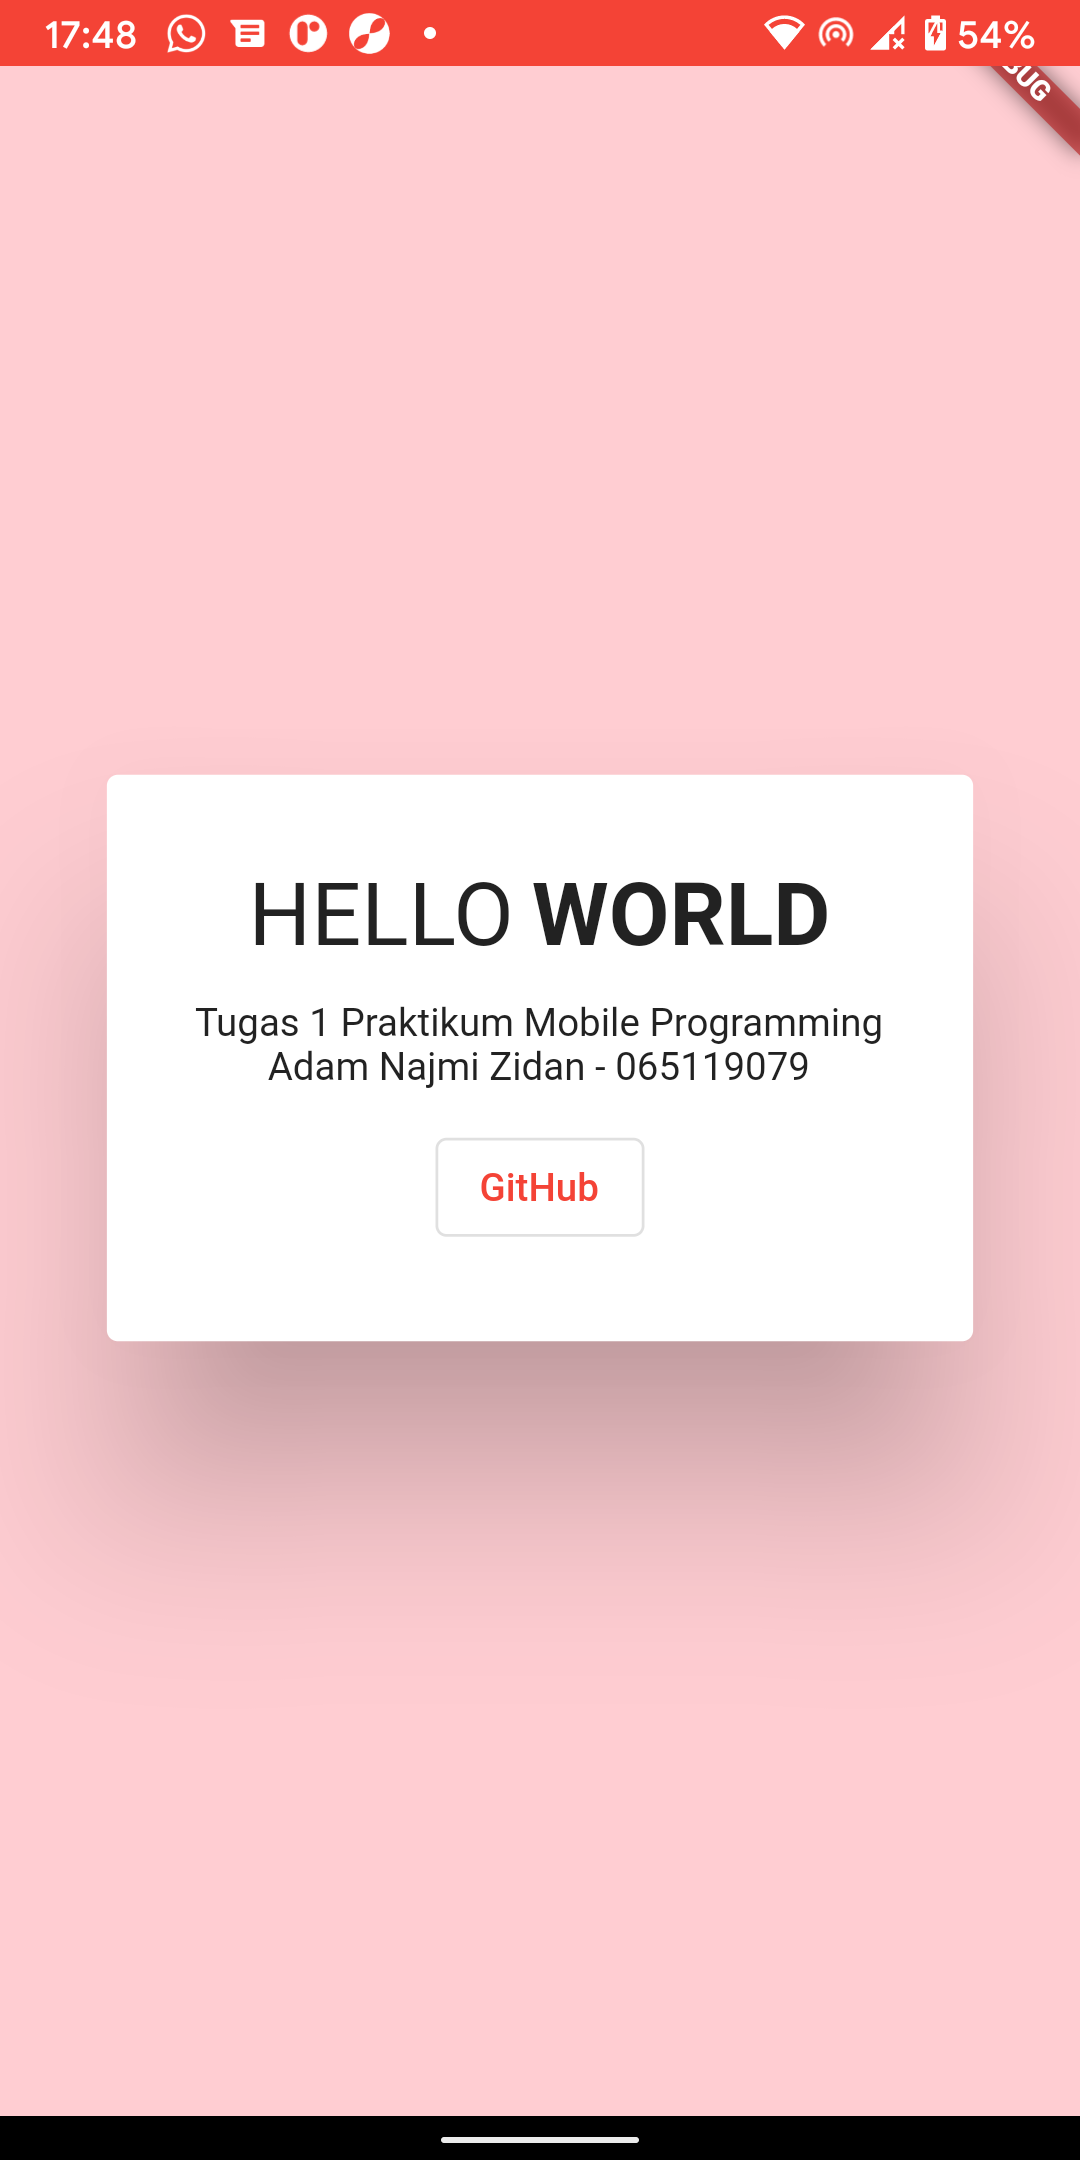
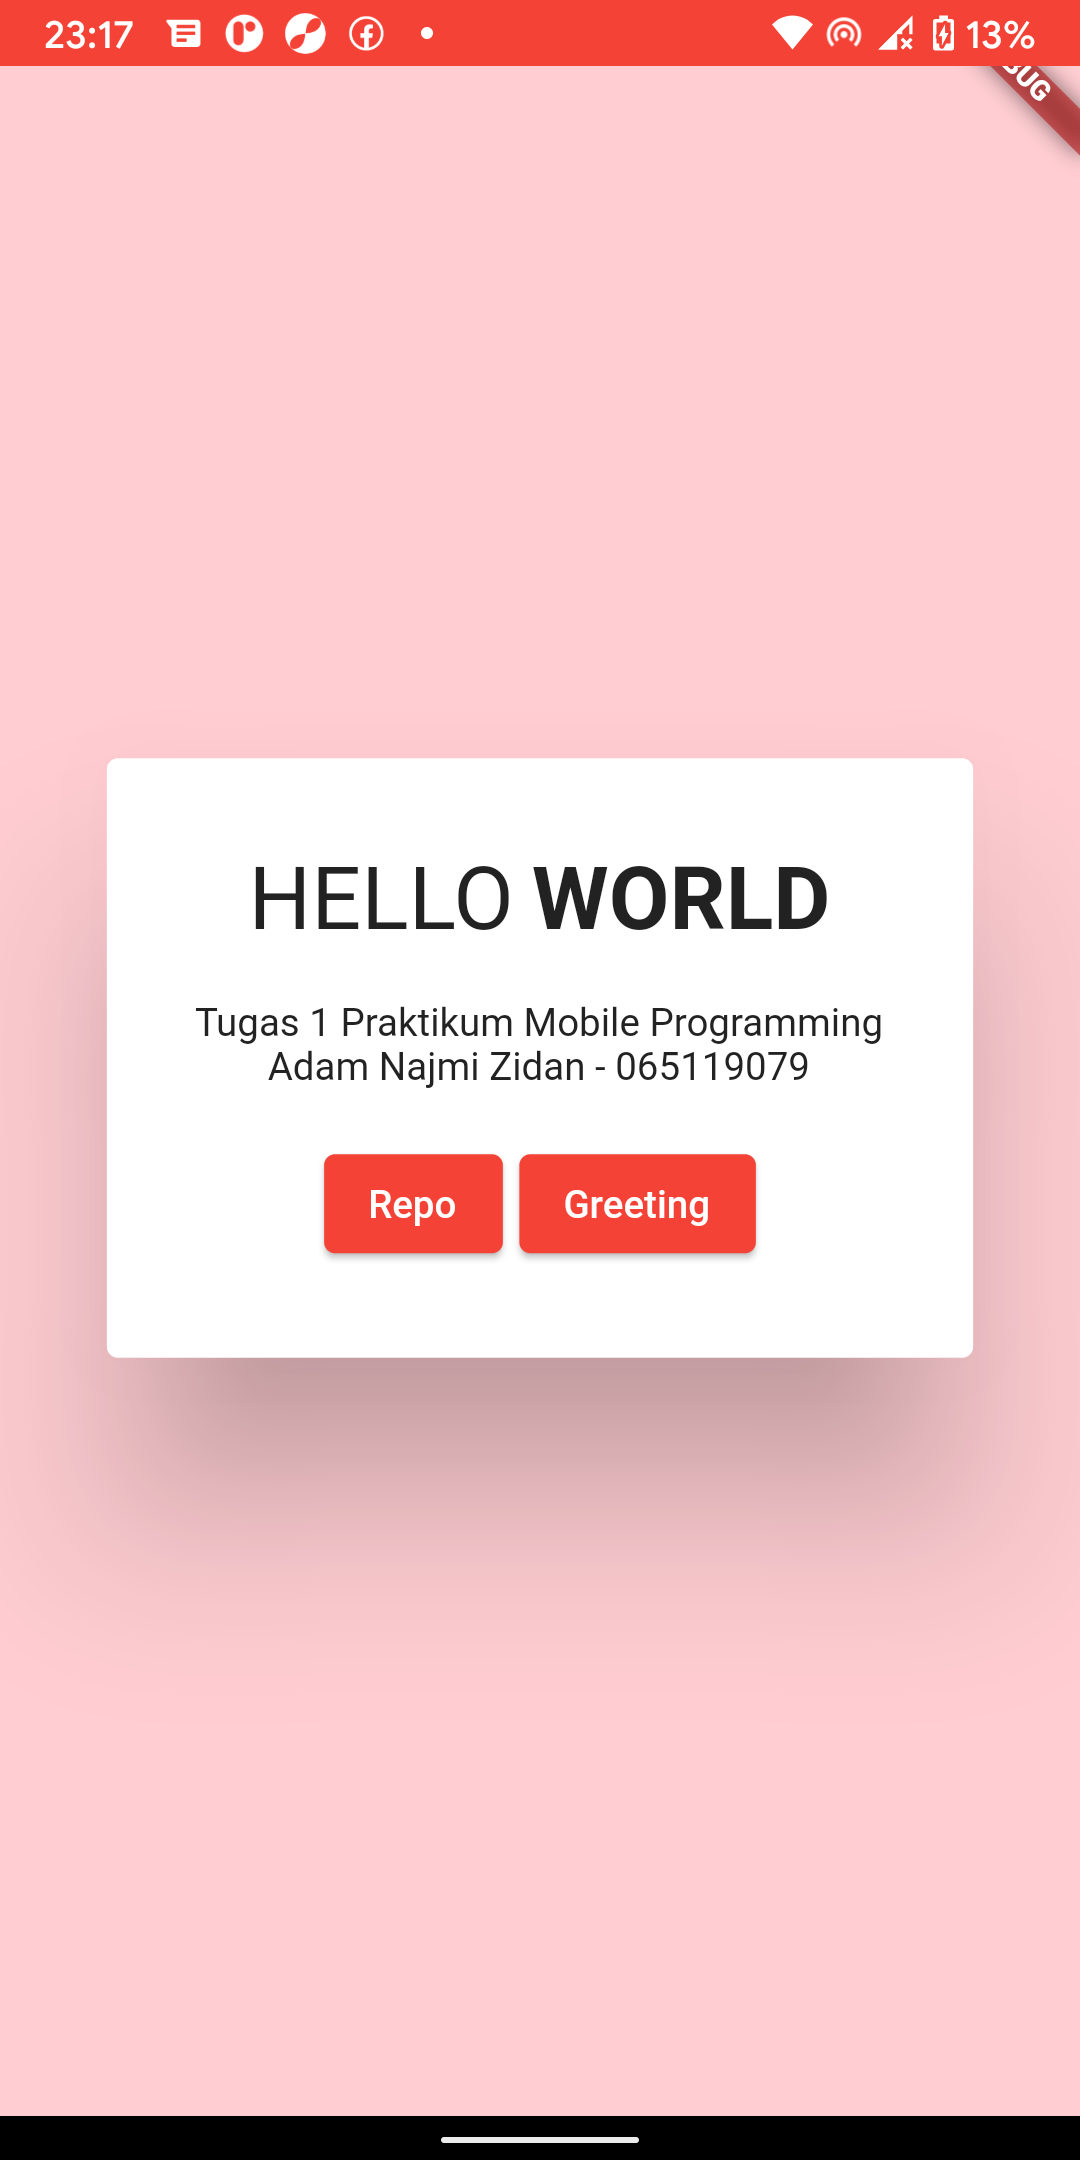
ui: minor changes

diff --git a/lib/main.dart b/lib/main.dart
@@ -74,16 +74,43 @@ class _MyHomePageState extends State<MyHomePage> {
                                   ),
                                   const Padding(
                                       padding:
-                                          EdgeInsets.only(top: 6, bottom: 6)),
+                                          EdgeInsets.only(top: 12, bottom: 6)),
                                   const Text(
                                       "Tugas 1 Praktikum Mobile Programming"),
                                   const Text("Adam Najmi Zidan - 065119079"),
                                   const Padding(
                                       padding:
-                                          EdgeInsets.only(top: 6, bottom: 6)),
-                                  const OutlinedButton(
-                                    onPressed: _launchURL,
-                                    child: Text('GitHub'),
+                                          EdgeInsets.only(top: 6, bottom: 12)),
+                                  Row(
+                                    children: [
+                                      const ElevatedButton(
+                                        onPressed: _launchURL,
+                                        child: Text('Repo'),
+                                      ),
+                                      const Padding(
+                                          padding: EdgeInsets.only(
+                                              left: 3, right: 3)),
+                                      ElevatedButton(
+                                        onPressed: () => showDialog(
+                                            context: context,
+                                            builder: (BuildContext context) =>
+                                                AlertDialog(
+                                                  title: const Text('Hi!'),
+                                                  content: const Text(
+                                                      'Hi Ka Amal dan Kak Sandy!!'),
+                                                  actions: <Widget>[
+                                                    TextButton(
+                                                        onPressed: () =>
+                                                            Navigator.pop(
+                                                                context,
+                                                                'Tutup'),
+                                                        child:
+                                                            const Text('Tutup'))
+                                                  ],
+                                                )),
+                                        child: const Text("Greeting"),
+                                      )
+                                    ],
                                   ),
                                 ],
                               )))
